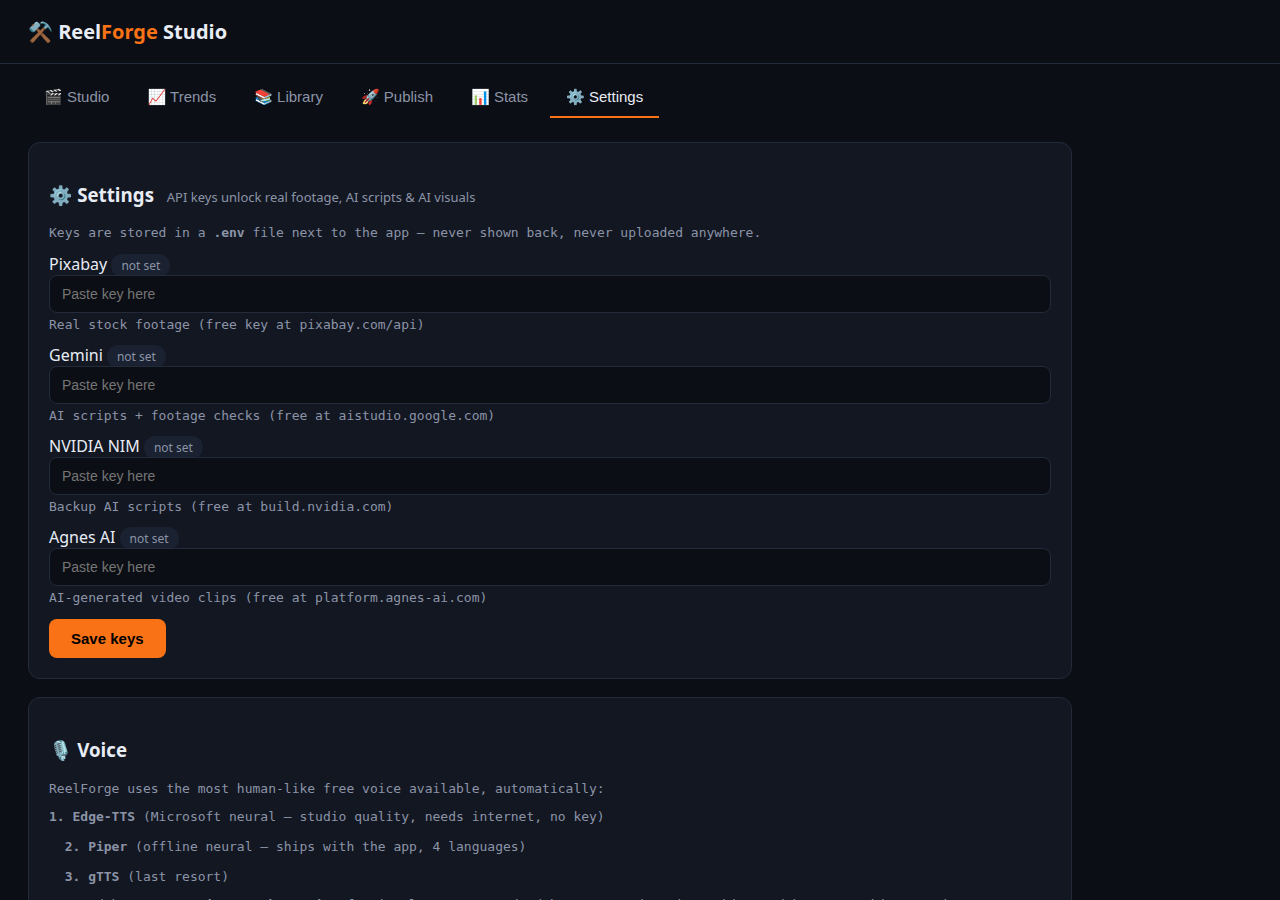
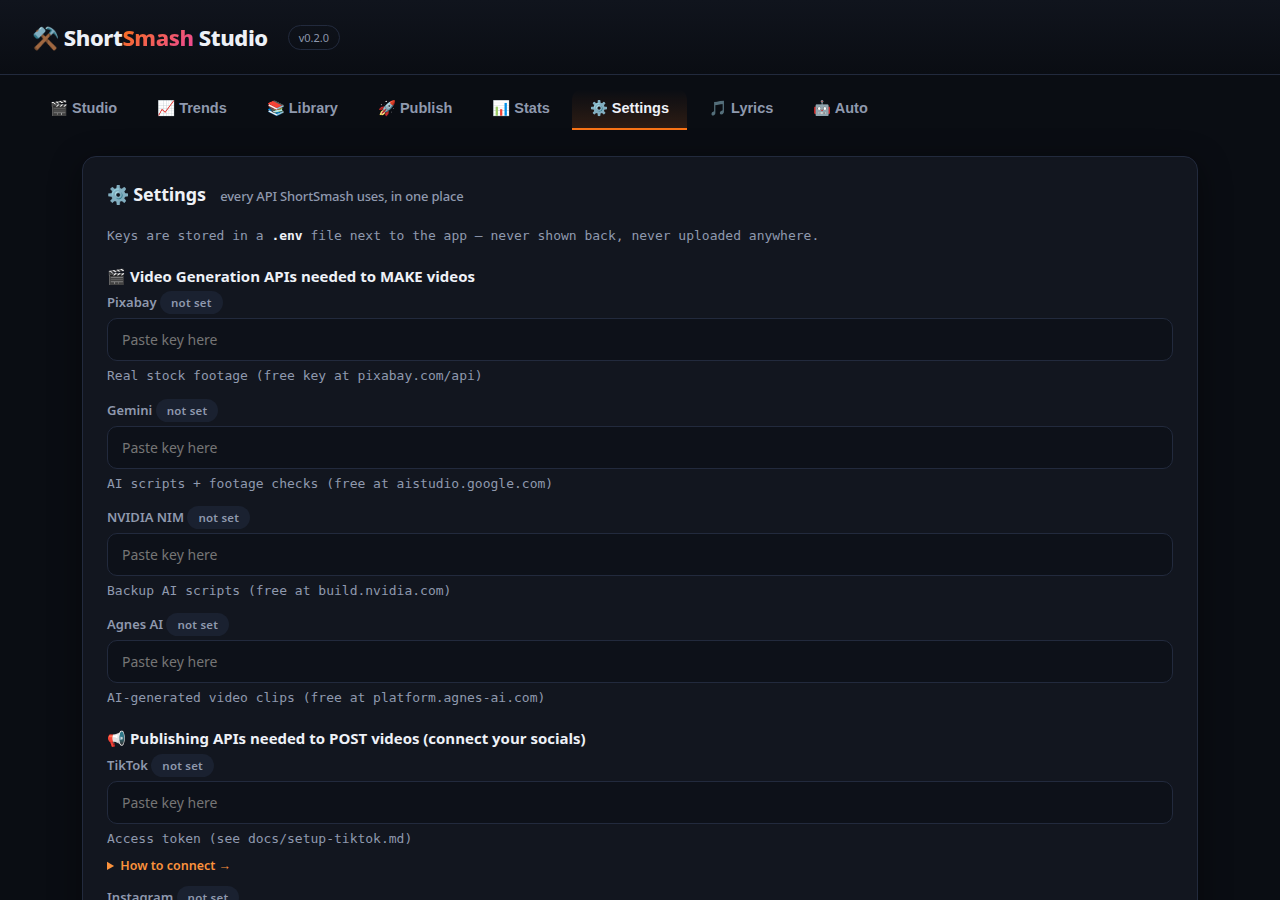
Rebrand stragglers: Studio header/button, README copy, fresh screenshots
The header split the name across a span (Reel<span>Forge</span>) which
the bulk rename missed. Screenshots re-captured with ShortSmash
branding and current copy (10 platforms, 50 languages).

diff --git a/shortsmash/web.py b/shortsmash/web.py
@@ -556,7 +556,7 @@ h3 .sub{font-weight:500;font-size:13px;color:var(--dim);margin-left:10px}
 @media(max-width:640px){header,nav,main{padding-left:16px;padding-right:16px}
 .hero h2{font-size:21px}.tgrid{grid-template-columns:1fr 1fr}}
 </style></head><body>
-<header><h1>⚒ Reel<span>Forge</span> Studio</h1><span class="tag">v0.2.0</span></header>
+<header><h1>⚒ Short<span>Smash</span> Studio</h1><span class="tag">v0.2.0</span></header>
 <nav>
 <button class="on" onclick="tab('studio')">🎬 Studio</button>
 <button onclick="tab('trends')">📈 Trends</button>
@@ -592,7 +592,7 @@ h3 .sub{font-weight:500;font-size:13px;color:var(--dim);margin-left:10px}
      <option value="9:16">9:16 Vertical</option>
     </select></div>
    <div style="max-width:150px"><label>&nbsp;</label><br>
-    <button class="go" id="genbtn" onclick="generate()">Forge ⚒</button></div>
+    <button class="go" id="genbtn" onclick="generate()">Smash ⚒</button></div>
   </div>
   <p class="log" id="genlog"></p>
   <p class="log" style="margin-top:8px">🌍 <b>50 languages, one click.</b> Pick Urdu, Hindi, Chinese, Arabic, Spanish… and ShortSmash

diff --git a/README.md b/README.md
@@ -20,7 +20,7 @@ shortsmash agent "make a 30s reel about coffee and post it Friday at 6pm"
 
 `shortsmash serve` launches a dark, fast studio in your browser — no build step:
 
-- **🎬 Studio tab** — type a topic, hit Forge, watch it build; video previews inline
+- **🎬 Studio tab** — type a topic, hit Smash, watch it build; video previews inline
 - **📈 Trends tab** — browse what's hot per niche, click any trend to use it as your topic
 - **📚 Library tab** — every project, video preview, one-click publish
 - **📊 Stats tab** — your output at a glance
